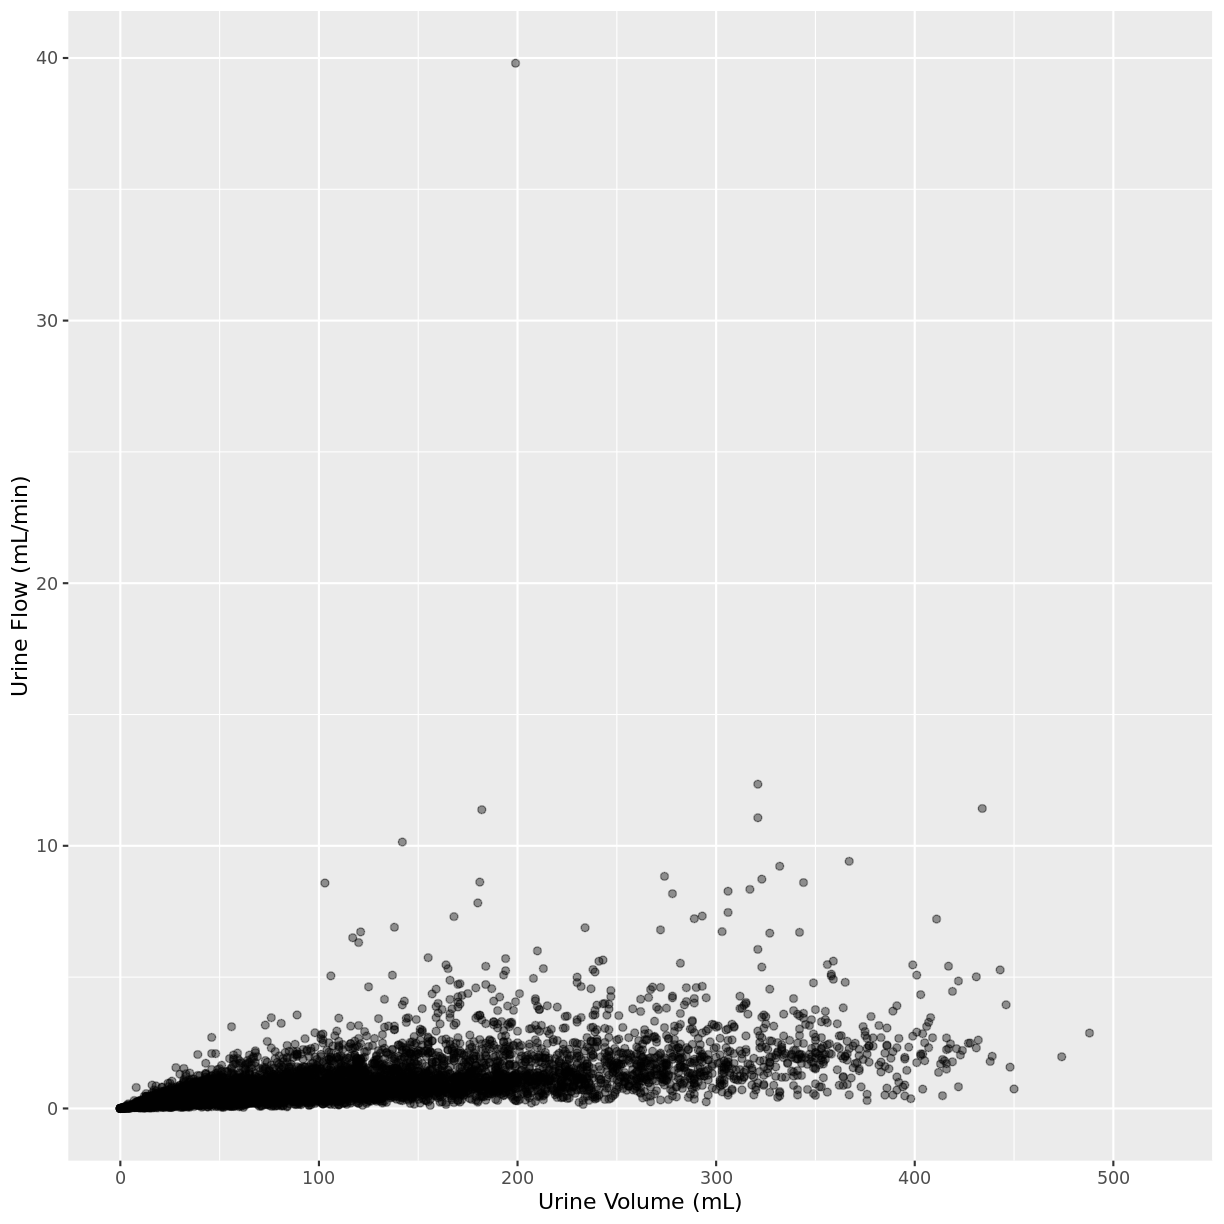
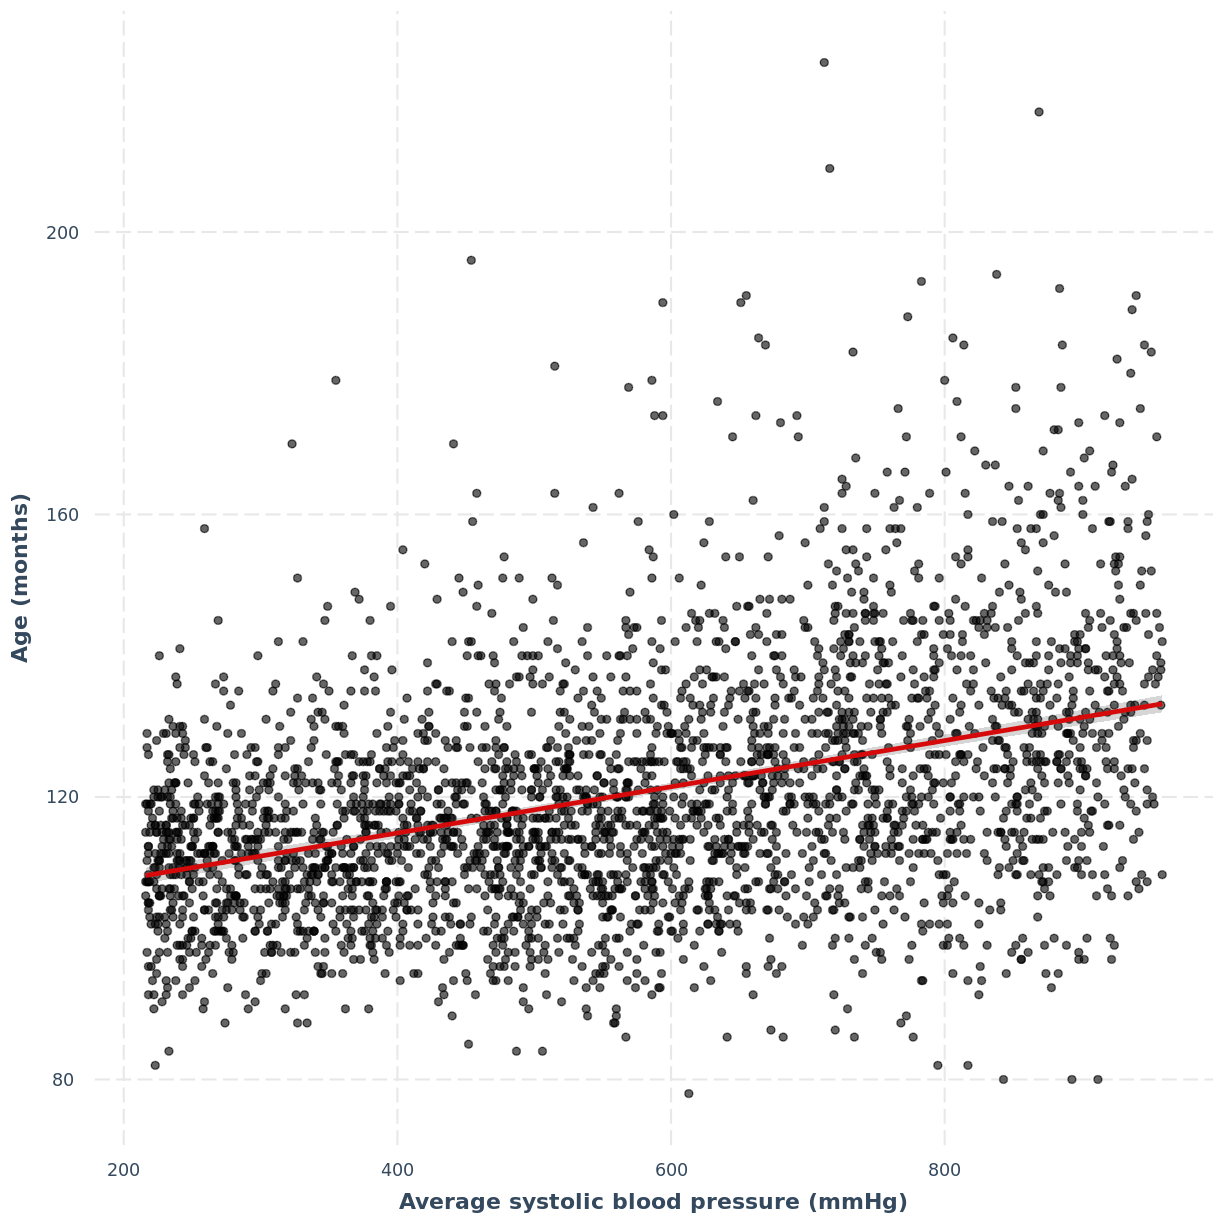
change urine model to BPsysAve

diff --git a/_episodes/02-singleContPred.md b/_episodes/02-singleContPred.md
@@ -49,30 +49,32 @@ Warning: Removed 320 rows containing missing values (geom_point).
 <img src="../fig/rmd-02-Height vs Weight plot-1.png" title="plot of chunk Height vs Weight plot" alt="plot of chunk Height vs Weight plot" width="612" style="display: block; margin: auto;" />
 
 > ## Exercise  
-> You have been asked to model the relationship between Urine Flow
-> and Urine Volume in the NHANES data. In order to fit a simple 
+> You have been asked to model the relationship between average systolic blood pressure
+> and age in adults in the NHANES data. In order to fit a simple 
 > linear regression model, you first need to confirm 
 > that the relationship between these
 > variables appears linear. Use the ggplot2 package to create a plot,
 > ensuring that it includes the following elements:  
-> 1. Urine Flow (`UrineFlow1`) on the y-axis and Urine Volume
-> (`UrineVol1`) on the x-axis, from the NHANES data.  
+> 1. average systolic blood pressure (`BPSysAve`) on the y-axis and age
+> (`AgeMonths`) on the x-axis, from the NHANES data, only including data from individuals over the age of 17.  
 > 2. This data shown as a scatterplot.  
-> 3. The y-axis labelled as "Urine Flow (mL/min)" and the x-axis labelled
-> as "Urine Volume (mL)". 
+> 3. The y-axis labelled as "Average systolic blood pressure (mmHg)" and the x-axis labelled
+> as "Age (months)". 
 >
 > > ## Solution
 > > 
 > > 
 > > ~~~
-> > ggplot(dat, aes(x = UrineVol1, y = UrineFlow1)) +
+> > dat %>%
+> >   filter(Age > 17) %>%
+> >   ggplot(aes(x = AgeMonths, y = BPSysAve)) +
 > >   geom_point(alpha = 0.4) +
-> >   xlab("Urine Volume (mL)") + 
-> >   ylab("Urine Flow (mL/min)")
+> >   ylab("Average systolic blood pressure (mmHg)") +
+> >   xlab("Age (months)")
 > > ~~~
 > > {: .language-r}
 > > 
-> > <img src="../fig/rmd-02-unnamed-chunk-2-1.png" title="plot of chunk unnamed-chunk-2" alt="plot of chunk unnamed-chunk-2" width="612" style="display: block; margin: auto;" />
+> > <img src="../fig/rmd-02-explore BPSysAve vs AgeMonths-1.png" title="plot of chunk explore BPSysAve vs AgeMonths" alt="plot of chunk explore BPSysAve vs AgeMonths" width="612" style="display: block; margin: auto;" />
 > {: .solution}
 {: .challenge}
 
@@ -140,19 +142,19 @@ Height                0.901     0.853     0.948    37.393   0.000
 {: .output}
 
 > ## Exercise  
-> Now that you have confirmed that the relationship between Urine Flow
-> and Urine Volume does not appear to deveate from linearity in the NHANES data, 
+> Now that you have confirmed that the relationship between `BPSysAve`
+> and `AgeMonths` does not appear to deveate from linearity in the NHANES data, 
 > you can proceed to fitting a simple linear regression model.  
 >   
-> 1. Using the `lm()` command, fit a simple linear regression of Urine Flow
-> (`UrineFlow1`) as a function of Urine Volume (`UrineVol1`). 
-> Name this `lm` object `UrineFlow_UrineVol_lm`.  
+> 1. Using the `lm()` command, fit a simple linear regression of average systolic blood pressure
+> (`BPSysAve`) as a function of age in months (`AgeMonths`). 
+> Name this `lm` object `BPSysAve_AgeMonths_lm`.  
 > 2. Using the `summ` function from the `jtools` package, answer the following questions:
 >   
-> A) What Urine Flow does the model predict, on average,
-> for an individual with a Urine Volume of 0?  
-> B) By how much is Urine Flow expected to change, on average, for
-> a one-unit increase in Urine Volume?  
+> A) What average systolic blood pressure does the model predict, on average,
+> for an individual with an age of 0 months?  
+> B) By how much is average systolic blood pressure expected to change, on average, for
+> a one-unit increase in age?  
 > C) Given these two values and the names of the response and explanatory
 > variables, how can the general equation $E(y) = \beta_0 + {\beta}_1 
 > \times x$ be adapted to represent your model? 
@@ -161,9 +163,11 @@ Height                0.901     0.853     0.948    37.393   0.000
 > > 
 > > 
 > > ~~~
-> > UrineFlow_UrineVol_lm <- lm(formula = UrineFlow1 ~ UrineVol1, data = dat)
+> > BPSysAve_AgeMonths_lm <- dat %>% 
+> >   filter(Age > 17) %>%
+> >   lm(formula = BPSysAve ~ AgeMonths)
 > > 
-> > summ(UrineFlow_UrineVol_lm, confint = TRUE, digits=3)
+> > summ(BPSysAve_AgeMonths_lm, confint = TRUE, digits=3)
 > > ~~~
 > > {: .language-r}
 > > 
@@ -171,28 +175,28 @@ Height                0.901     0.853     0.948    37.393   0.000
 > > 
 > > ~~~
 > > MODEL INFO:
-> > Observations: 7454 (2546 missing obs. deleted)
-> > Dependent Variable: UrineFlow1
+> > Observations: 3084 (3413 missing obs. deleted)
+> > Dependent Variable: BPSysAve
 > > Type: OLS linear regression 
 > > 
 > > MODEL FIT:
-> > F(1,7452) = 3101.032, p = 0.000
-> > R² = 0.294
-> > Adj. R² = 0.294 
+> > F(1,3082) = 556.405, p = 0.000
+> > R² = 0.153
+> > Adj. R² = 0.153 
 > > 
 > > Standard errors: OLS
-> > ----------------------------------------------------------
-> >                      Est.    2.5%   97.5%   t val.       p
-> > ----------------- ------- ------- ------- -------- -------
-> > (Intercept)         0.222   0.189   0.254   13.435   0.000
-> > UrineVol1           0.006   0.006   0.007   55.687   0.000
-> > ----------------------------------------------------------
+> > -----------------------------------------------------------------
+> >                        Est.      2.5%     97.5%    t val.       p
+> > ----------------- --------- --------- --------- --------- -------
+> > (Intercept)         101.812   100.166   103.458   121.276   0.000
+> > AgeMonths             0.033     0.030     0.035    23.588   0.000
+> > -----------------------------------------------------------------
 > > ~~~
 > > {: .output}
 > > 
-> > A) 0.257 mL/min  
-> > B) Increase by 0.006 mL/min  
-> > C) $E(\text{Urine Flow}) = 0.257 + 0.006 \times \text{Urine Volume}$
+> > A) 101.8 mmHg.  
+> > B) Increase by 0.033 mmHg/month.    
+> > C) $E(\text{Average systolic blood pressure}) = 101.8 + 0.033 \times \text{Age in Months}$.  
 > {: .solution}
 {: .challenge}
 
@@ -217,14 +221,14 @@ effect_plot(Weight_Height_lm, pred = Height, plot.points = TRUE,
 > > ## Solution
 > > 
 > > ~~~
-> > effect_plot(UrineFlow_UrineVol_lm, pred = UrineVol1, plot.points = TRUE,
+> > effect_plot(BPSysAve_AgeMonths_lm, pred = AgeMonths, plot.points = TRUE,
 > >             interval = TRUE, colors = "red") +
-> >   xlab("Urine Volume (mL)") + 
-> >   ylab("Urine Flow (mL/min)")
+> >   xlab("Average systolic blood pressure (mmHg)") + 
+> >   ylab("Age (months)")
 > > ~~~
 > > {: .language-r}
 > > 
-> > <img src="../fig/rmd-02-unnamed-chunk-3-1.png" title="plot of chunk unnamed-chunk-3" alt="plot of chunk unnamed-chunk-3" width="612" style="display: block; margin: auto;" />
+> > <img src="../fig/rmd-02-unnamed-chunk-2-1.png" title="plot of chunk unnamed-chunk-2" alt="plot of chunk unnamed-chunk-2" width="612" style="display: block; margin: auto;" />
 > {: .solution}
 {: .challenge}
 
